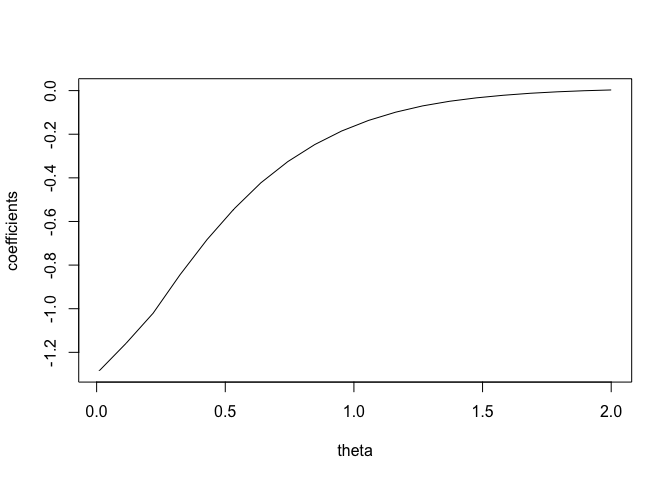
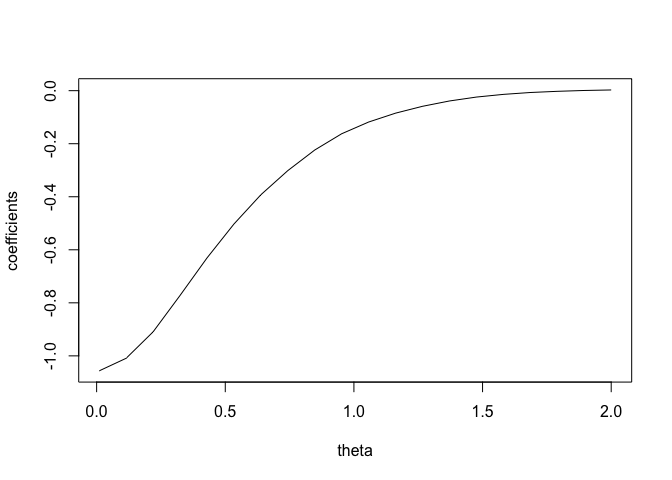
The readme file

diff --git a/README.md b/README.md
@@ -21,8 +21,21 @@ install.packages("log.location")
 And the development version from [GitHub](https://github.com/) with:
 
 ``` r
-# install.packages("devtools")
-devtools::install_github("nilanjanalaha/log.location")
+#Uninstalling previous versions, if installed
+devtools::install_github("nilanjanalaha/log.location", force=TRUE)
+#> Downloading GitHub repo nilanjanalaha/log.location@master
+#> 
+#>      checking for file ‘/private/var/folders/vb/498bk3fd1x38tk9jpy4760c00000gn/T/RtmpTgMXaA/remotescf087619cc5d/nilanjanalaha-log.location-776ae33/DESCRIPTION’ ...  ✓  checking for file ‘/private/var/folders/vb/498bk3fd1x38tk9jpy4760c00000gn/T/RtmpTgMXaA/remotescf087619cc5d/nilanjanalaha-log.location-776ae33/DESCRIPTION’ (458ms)
+#>   ─  preparing ‘log.location’:
+#>      checking DESCRIPTION meta-information ...  ✓  checking DESCRIPTION meta-information
+#>   ─  excluding invalid files
+#>      Subdirectory 'R' contains invalid file names:
+#>      ‘n100N500.RData’
+#>   ─  checking for LF line-endings in source and make files and shell scripts
+#>   ─  checking for empty or unneeded directories
+#> ─  building ‘log.location_0.0.0.9000.tar.gz’
+#>      
+#> 
 ```
 
 Let us simulate some Toy data
@@ -42,9 +55,9 @@ basis functions.
 ``` r
 score.coeff(x, theta=0.01, indices= c(1,2,4))
 #>       real.part    im.part
-#> [1,] -0.9199077 0.05526151
-#> [2,] -1.0303782 0.08081560
-#> [3,] -1.1483034 0.04213534
+#> [1,] -1.0564957 -0.0307393
+#> [2,] -1.1536626 -0.1317294
+#> [3,] -0.9337857 -0.1525421
 ```
 
 If we want only real parts or only imaginary parts, we can indicate so
@@ -53,7 +66,7 @@ by setting “which” to be one and two, respectively.
 ``` r
 # To output only the real part of the cefficients
 score.coeff(x, theta=0.01, indices= c(1,2,4), which=1)
-#> [1] -0.9199077 -1.0303782 -1.1483034
+#> [1] -1.0564957 -1.1536626 -0.9337857
 ```
 
 We plot the real parts of the estimated Fourier coefficients as a
@@ -171,3 +184,107 @@ abline(h=0, col='blue')
 We observe that the confidence intervals are too large for n=100. We try
 n=1000, which still has high confidence intervals.
 <img src="man/figures/README-beran estimate 1000-1.png" width="100%" />
+
+## Stone’s estimator
+
+Stone (1975)’s estimators also give the estimator of the location
+\(\theta\). The function to use is **giveth**. You have to supply an
+initial estimator of \(\theta\), which is **inth**. The tuning
+parameters are dn (truncation) and tn (smoothness). If not sapplied byy
+the user, default values are used.
+
+``` r
+x <- rnorm(100)
+giveth(x, inth = mean(x))
+#> $estimate
+#> [1] -0.04902123
+#> 
+#> $CI
+#> [1] -0.11892722  0.02088475
+giveth(x, inth = mean(x), dn=30, tn=0.50)
+#> $estimate
+#> [1] -0.04641573
+#> 
+#> $CI
+#> [1] -0.11392271  0.02109125
+```
+
+\#Estimators in Laha et al. (2020)
+
+## Partial MLE estimator
+
+Use the function **p.mle**. The parameter q can be used to give the
+truncation level. The default is 0. Please load the package `logcondens"
+before using this. Although log.location adds logcondens as a
+dependency, for some reason, the funvtion`PreProcess does not get
+loaded".
+
+``` r
+x <- rnorm(100)
+library(logcondens)
+p.mle(x, init=mean(x))
+#> $estimate
+#>   q        est
+#> 1 0 -0.2460157
+#> 
+#> $CI
+#>   q         lb          ub
+#> 1 0 -0.4663034 -0.02572806
+p.mle(x, q=c(0, 0.01, 0.02))
+#> $estimate
+#>      q        est
+#> 1 0.00 -0.2460157
+#> 2 0.01 -0.2492603
+#> 3 0.02 -0.2528789
+#> 
+#> $CI
+#>      q         lb          ub
+#> 1 0.00 -0.4663034 -0.02572806
+#> 2 0.01 -0.4748238 -0.02369670
+#> 3 0.02 -0.4841165 -0.02164123
+```
+
+## MLE estimator
+
+The function **MLE\_location** gives the MLE under the log-concave
+location model of laha et al. (2020). Please load the package
+`logcondens" before using this. Although log.location adds logcondens as
+a dependency, for some reason, the funvtion`PreProcess does not get
+loaded".
+
+``` r
+library(logcondens)
+MLE_location(x)
+#> $estimate
+#> [1] -0.1966886
+#> 
+#> $CI
+#> [1] -0.41164290  0.01826566
+```
+
+## The smoothed symmetrized estimator
+
+The function **s.sym** calculates this estimator. Pass the initial
+estimator as inth and use q to set the truncation level.
+
+``` r
+library(logcondens)
+s.sym(x)
+#> $estimate
+#>   q       est
+#> 1 0 -0.199468
+#> 
+#> $CI
+#>   q         lb           ub
+#> 1 0 -0.3967695 -0.002166426
+s.sym(x, q=c(0.01, 0.02))
+#> $estimate
+#>      q        est
+#> 1 0.01 -0.2248547
+#> 2 0.02 -0.2295700
+#> 
+#> $CI
+#>      q         lb         ub
+#> 1 0.01 -0.4730244 0.02331501
+#> 2 0.02 -0.4875726 0.02843262
+```
